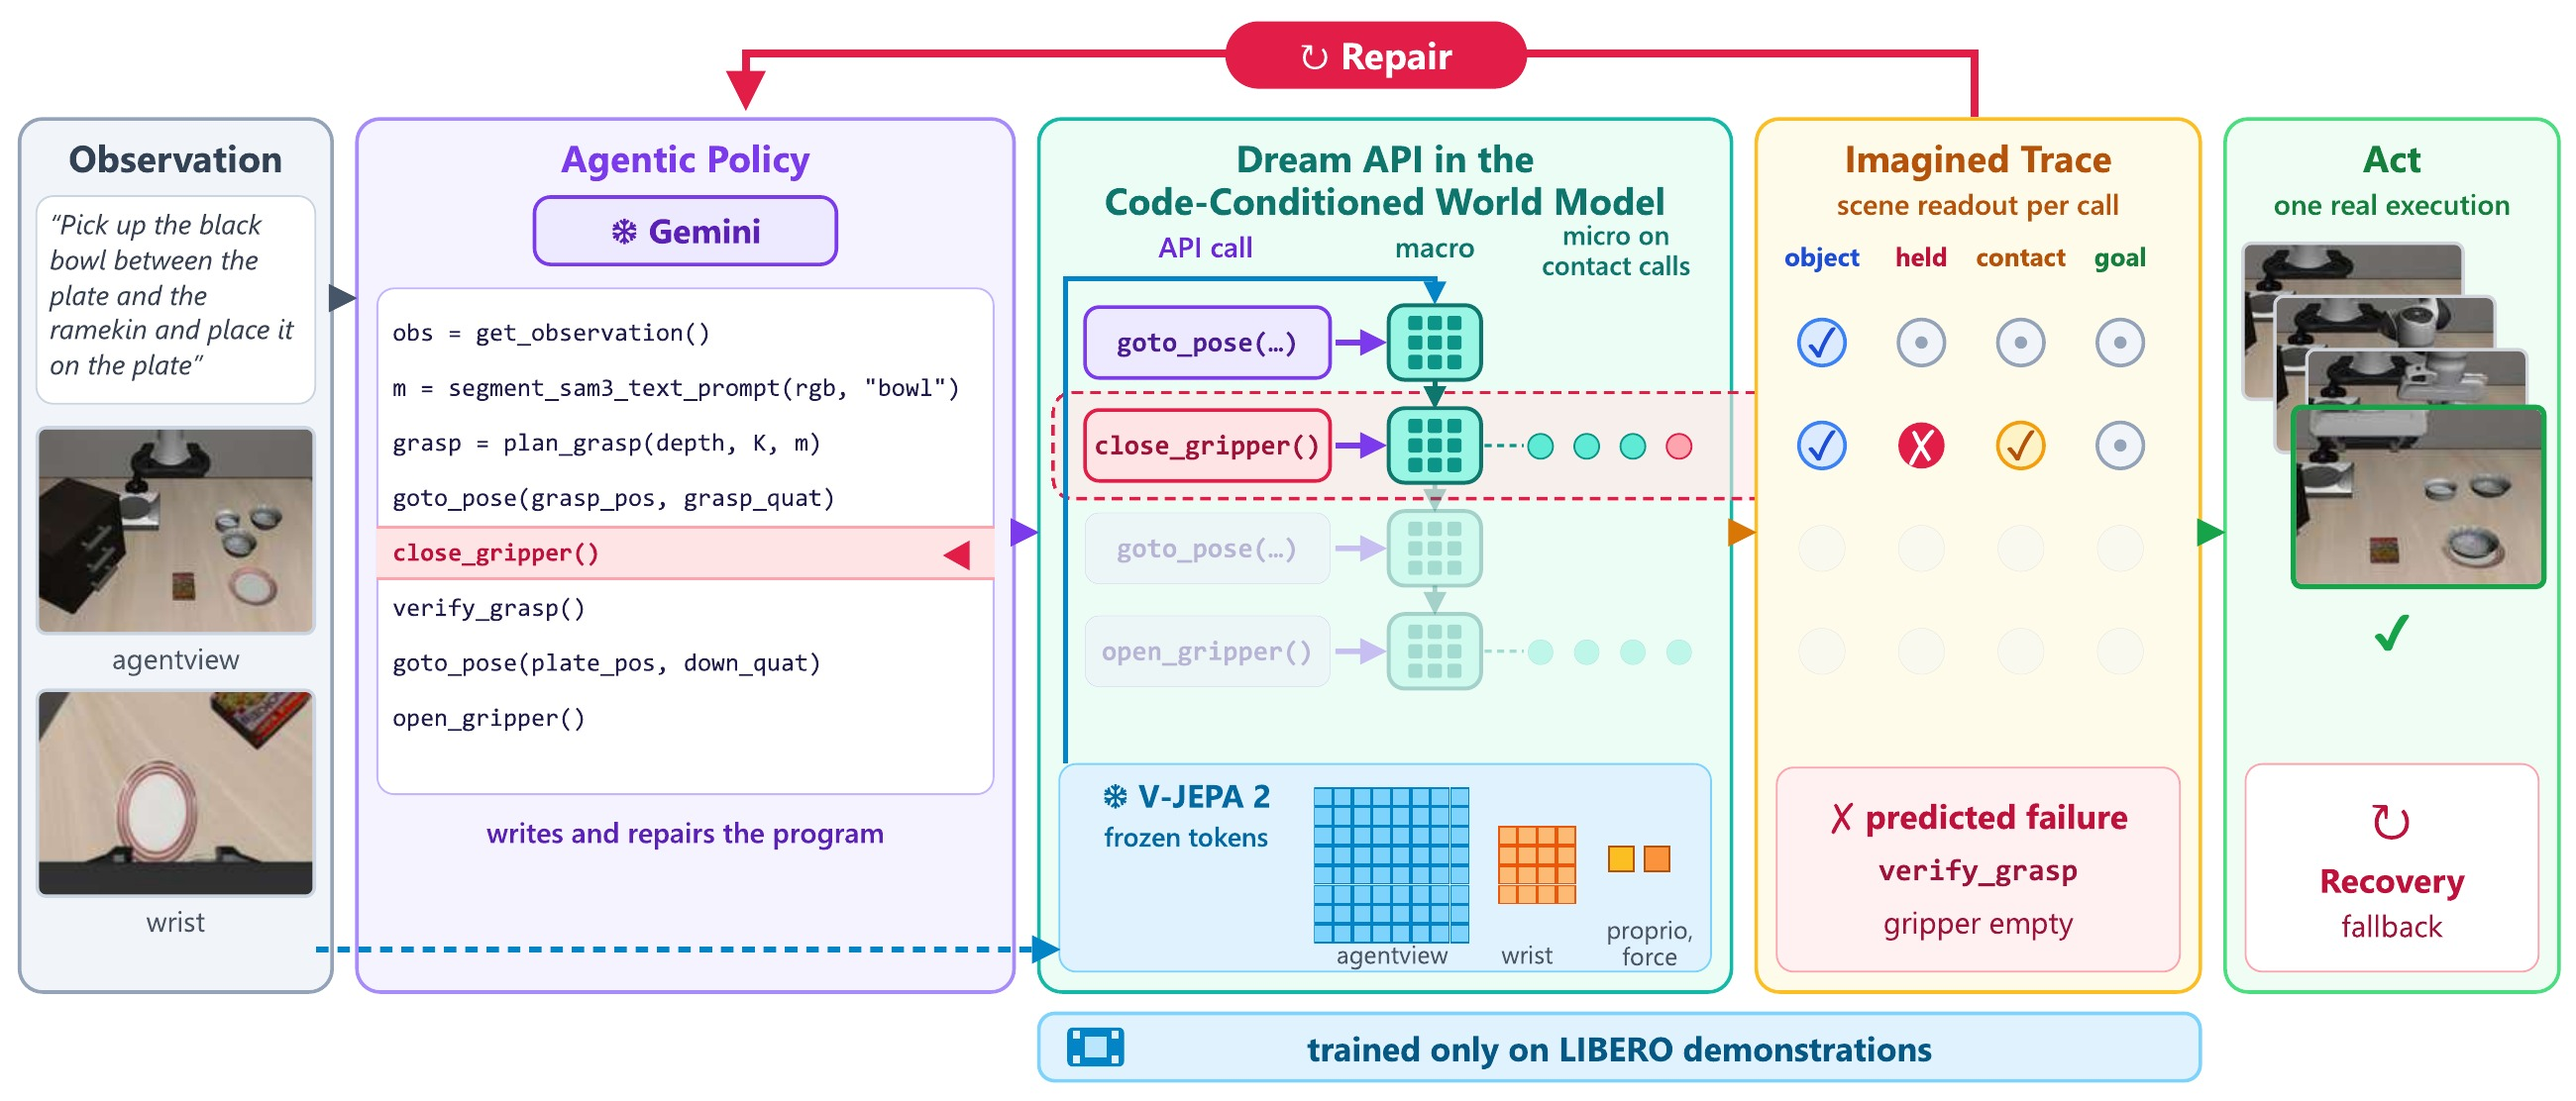
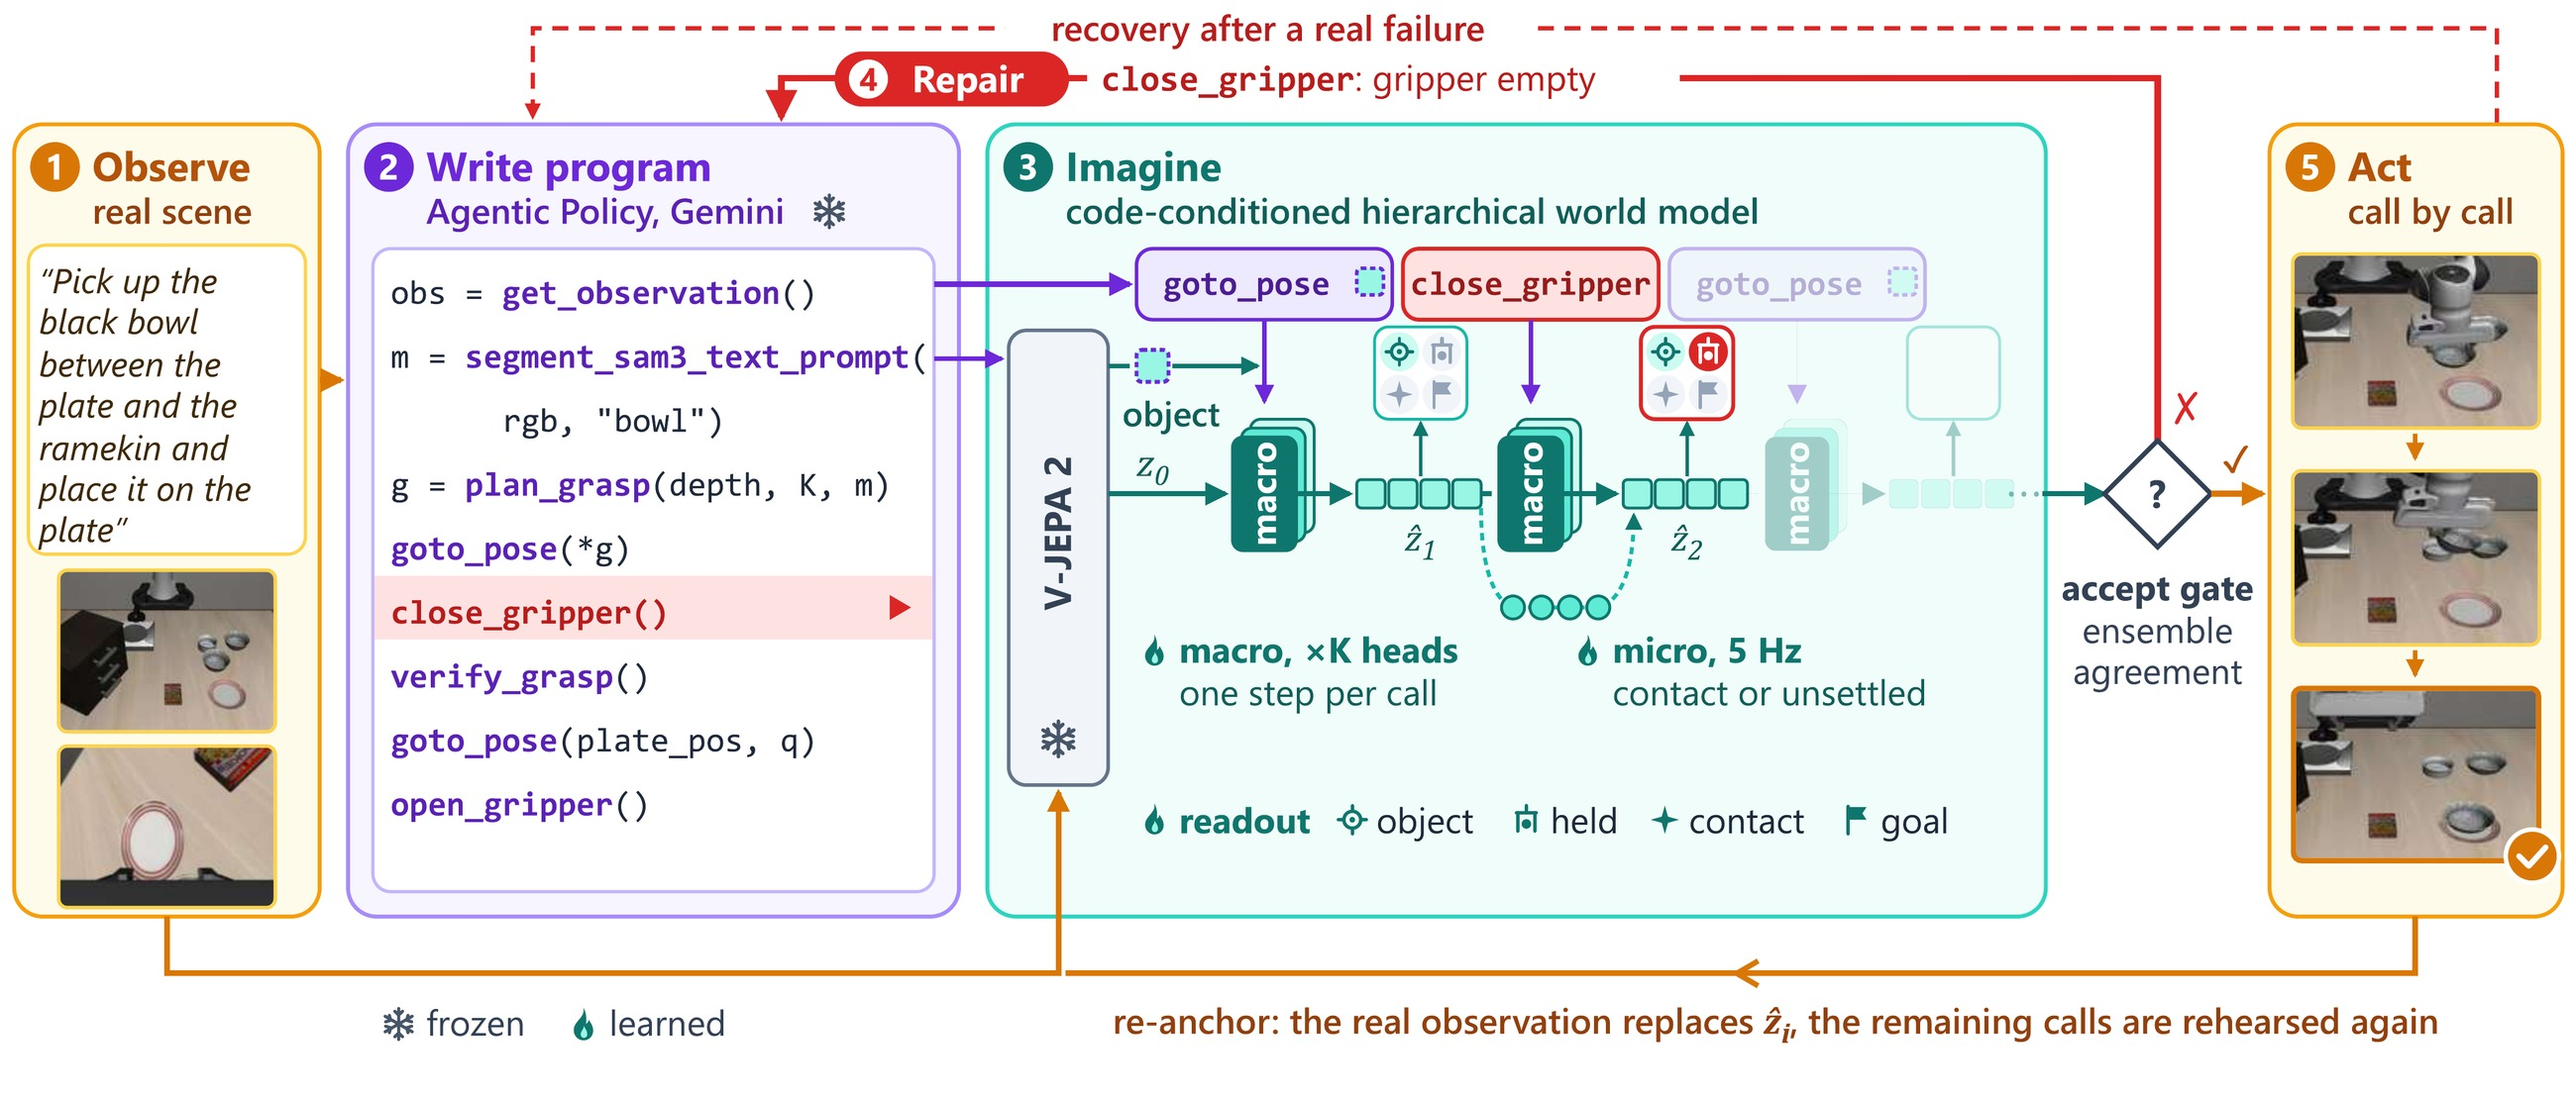
docs: redesign Agentic-LWM framework figure
Fig. 1 redesigned (stages 1 to 5, accept gate, repair, recovery and re-anchor loops); method cards and README describe receding-horizon act, ensemble accept gate, micro refinement of contact or unsettled calls and mask-pooled object arguments.

diff --git a/index.html b/index.html
@@ -4,7 +4,7 @@
   <meta charset="utf-8">
   <meta name="viewport" content="width=device-width, initial-scale=1">
   <title>Agentic-LWM: Grounding Multimodal Policies in Hierarchical Latent World Model</title>
-  <meta name="description" content="Agentic-LWM: a robot coding agent rehearses its program in a world model learned only from demonstrations, reads the imagined trace, repairs the program and executes it once.">
+  <meta name="description" content="Agentic-LWM: a robot coding agent rehearses its program in a world model learned only from demonstrations, reads the imagined trace, repairs the program and executes it call by call, re-anchoring the rehearsal on every real observation.">
   <meta name="theme-color" content="#0e7490">
   <link rel="canonical" href="https://physical-super-intelligence.github.io/Agentic-LWM/">
   <meta property="og:type" content="article">
@@ -70,12 +70,13 @@
 
       <figure class="fig" style="margin-top:2.4rem">
         <img src="static/images/framework.jpg" class="zoom" loading="eager" width="2600" height="1112"
-             alt="Agentic-LWM overview: the Agentic Policy writes a program, the Dream API runs it in the code-conditioned world model where each API call conditions one macro step and micro motor steps refine only the contact calls, a scene readout gives the imagined trace with a predicted failure, the agent repairs the program, and the robot executes it once with recovery as fallback">
+             alt="Agentic-LWM overview in five stages: observe the real scene; the Agentic Policy writes a program; the code-conditioned hierarchical world model rehearses it, each API call conditioning one macro step of an ensemble of heads on frozen V-JEPA 2 tokens, micro motor steps refining contact or unsettled calls and a scene readout after each call; an accept gate sends a predicted failure back for repair; the accepted program runs call by call, each real observation re-anchoring the rehearsal, with recovery after a real failure">
         <figcaption><b>Agentic-LWM: rehearsal in imagination.</b> The Agentic Policy writes a program from the instruction and
-          the real observation. The Dream API runs it unchanged in the code-conditioned world model: each API call conditions
-          one macro step in the latent space of frozen V-JEPA&nbsp;2 tokens, micro motor steps refine only the contact calls,
-          and a scene readout after each call yields the imagined trace. A predicted failure sends the trace back to the agent
-          for repair; the repaired program is executed once, with recovery as fallback.</figcaption>
+          the real observation. The Dream API runs it unchanged in the code-conditioned hierarchical world model: each API call
+          conditions one macro step of an ensemble of heads on frozen V-JEPA&nbsp;2 tokens, micro motor steps refine contact or
+          unsettled calls, and a scene readout yields the imagined trace. A predicted failure the ensemble agrees on returns to
+          the agent for repair; an accepted program runs call by call, each real observation re-anchoring the rehearsal, with
+          recovery as fallback.</figcaption>
       </figure>
     </div>
   </header>
@@ -92,14 +93,15 @@
       <p class="pull" style="margin-bottom:0">From <b>trial-and-error execution</b> to <b>rehearsal in imagination</b>. The
         core innovation is a world model that executes the agent's own code: its high level is conditioned on the code,
         predicting the latent state after each API call from the call's function name and arguments, and it returns a
-        predicted execution trace that the agent reads and repairs against.</p>
+        predicted execution trace that the agent reads and repairs against. Rehearsal recedes with execution, restarting from
+        each real observation, and an uncertainty gate trusts only the calls the model agrees on.</p>
     </div>
   </section>
 
   <!-- Method -->
   <section class="band" id="method">
     <div class="wrap">
-      <div class="head"><span class="kicker k2">Method</span><h2>Imagine, repair, then act once</h2></div>
+      <div class="head"><span class="kicker k2">Method</span><h2>Imagine, repair, then act call by call</h2></div>
       <p class="note" style="margin:0 0 1.2rem">The Agentic Policy is a frozen vision-language model (Gemini) that writes
         Python against a perception and motion API, with retreat after a failed turn, a grasp check in meters, re-observation
         and re-synthesis; our agent builds on an <a href="https://proceedings.mlr.press/v306/fu26u.html">open-source coding-agent
@@ -108,30 +110,37 @@
         end-effector delta actions. The four parts below are the Stage 1 design built on these; the planner stays frozen and
         outside the world model.</p>
       <div class="ideas">
-        <div class="idea"><span class="n">01</span><h3>Code-conditioned world model</h3>
+        <div class="idea"><span class="n">01</span><h3>Code-conditioned hierarchical world model</h3>
           <p>Each macro step predicts the latent state after one API call from the current latent and an embedding of the
-            call itself: a learned token for the function name, the object it acts on through a frozen text encoder, and its
-            numeric arguments as values. The micro level stays on the compiled motor actions at 5&nbsp;Hz and refines only the
-            contact calls (<code>close_gripper</code>, <code>open_gripper</code>, pushes). Call labels come free from the
-            demonstrations: replays are cut at gripper events and end-effector stops and labelled by rules on the stored
-            simulator state, with no language-model labels.</p></div>
+            call itself: a learned token for the function name, its numeric arguments as values, and the object it acts on,
+            grounded in what the frozen encoder sees (V-JEPA&nbsp;2 tokens pooled under the mask the agent's own
+            <code>segment_sam3_text_prompt</code> returns, with the text prompt as a second key). The macro level is an
+            ensemble of small heads on a shared trunk; a call is settled only when the heads agree. The micro level stays on
+            the compiled motor actions at 5&nbsp;Hz and refines the contact calls (<code>close_gripper</code>,
+            <code>open_gripper</code>), every unsettled call and every motion whose path passes near an object. Call labels
+            come free from the demonstrations: replays are cut at gripper events and end-effector stops and labelled by rules
+            on the stored simulator state, with no language-model labels.</p></div>
         <div class="idea"><span class="n">02</span><h3>Scene readout</h3>
           <p>A small head reads every predicted state: object positions, the object in hand, finger and arm contacts, and
             which goal conditions hold. It is supervised by the simulator state stored in the demonstration replays (object
             poses, evaluator contacts, LIBERO's success check) and by the task's goal predicates.</p></div>
         <div class="idea"><span class="n">03</span><h3>Dream API</h3>
-          <p>An imagined backend with the same function signatures, so the agent's program runs unchanged. Perception before
-            any motion uses the real observation; each motion or gripper call conditions one macro step; grasp checks and
-            later perception calls answer from the readout. The world model is latent and decodes no pixels.</p></div>
+          <p>An imagined backend with the same function signatures, so the agent's program runs unchanged. A rehearsal starts
+            from the latest real observation; each motion or gripper call conditions one macro step; grasp checks and
+            perception calls after an imagined motion answer from the readout, and every call is marked settled or not. During
+            execution, perception reads the real observation. The world model is latent and decodes no pixels.</p></div>
         <div class="idea"><span class="n">04</span><h3>Imagine, Repair, Act</h3>
-          <p>The agent rehearses its program, reads the predicted trace (per call: readout and a predicted failure event with
-            its call index), edits the program and rehearses again within a fixed budget, then executes once for real. The
-            recovery loop stays as the fallback after a real failure, and every real retry is counted.</p></div>
+          <p>The agent rehearses its program and an accept gate reads the trace: a settled call predicted to fail, or unmet
+            goal conditions, send the program back for repair within a fixed budget. Otherwise the robot executes the next call
+            only; the real observation then replaces the imagined latent and the remaining calls are rehearsed again, so a
+            suffix now predicted to fail is repaired before the next real call, and a call that stays unsettled is executed
+            and read from reality instead of guessed. The recovery loop stays as the fallback after a real failure, and every
+            real retry is counted.</p></div>
       </div>
       <p class="note">Trained only on LIBERO demonstrations, replayed through the agent's own move primitive with perturbations
-        that supply failures; never on agent episodes. Limitations we test rather than assume: error compounds over long
-        programs, and an offline test of an action-level version found that predicted futures did not beat current-frame
-        features on shifted replays, which is why code conditioning and the readout are the Stage 1 changes.</p>
+        that supply failures; never on agent episodes. An offline test of an action-level, fixed-stride version found that
+        predicted futures did not beat current-frame features on shifted replays, which is why the model now steps on the
+        agent's calls and reads the scene out.</p>
     </div>
   </section>
 
@@ -164,8 +173,9 @@
         </table>
       </div>
       <p class="note">Metrics: first-execution completion, final completion, real retries and Gemini calls per episode,
-        rehearsal latency, and per-call agreement between the predicted and the real readout. The ablation suite is the one
-        with the lowest R0 first-execution completion, fixed after R0 and before any rehearsal run.</p>
+        rehearsal latency, and per-call agreement between the predicted and the real readout. Suffix repairs during execution
+        are logged apart and do not count as completion at first execution. R1 to R5 share the call-by-call act. The ablation
+        suite is the one with the lowest R0 first-execution completion, fixed after R0 and before any rehearsal run.</p>
 
       <div class="hyp">
         <div class="idea"><span class="n">Q1 &middot; H1</span><h3>Does rehearsal make the first execution more reliable under shift?</h3>
@@ -173,8 +183,9 @@
             contains zero. R1 separates the value of rehearsal from world-model fidelity.</p></div>
         <div class="idea"><span class="n">Q2 &middot; H2</span><h3>Does a world model conditioned on the agent's calls rehearse better than one on motor actions?</h3>
           <p>On the same programs, code-conditioned rehearsal (R5) beats action-level rehearsal (R2) in first-execution
-            completion and in per-call trace agreement, and the gap
-            grows with program length. Refuted if either difference or the growth contains zero.</p></div>
+            completion and in per-call trace agreement, and the gap grows with the rehearsal horizon. Refuted if either
+            difference or the growth contains zero. At no extra cost, the R5 logs also test that agreement is higher on
+            settled than on unsettled calls and count how often re-anchoring triggers a suffix repair.</p></div>
         <div class="idea"><span class="n">Q3 &middot; H3</span><h3>What must the agent see to fix its code?</h3>
           <p>At an equal cap on Gemini calls, first-execution completion rises from R3 (flag) to R4 (event and call index)
             to R5 (full trace). Refuted for each step whose paired interval contains zero.</p></div>

diff --git a/README.md b/README.md
@@ -14,14 +14,20 @@ program against a perception and motion API; the agent builds on an
 program runs in a hierarchical world model over frozen V-JEPA 2 tokens whose high level is conditioned on the code: each
 macro step predicts the latent state after one API call from the call's function name and arguments. A scene readout
 after each call gives object positions, the object in hand, contacts and goal conditions. The agent reads the imagined
-trace, repairs the program and executes it once for real, with its recovery loop as the fallback.
+trace and repairs the program; an accept gate passes only calls the model agrees on, and the program then runs call by
+call, each real observation re-anchoring the rehearsal of the remaining calls, with the recovery loop as the fallback.
 
-- **Code-conditioned world model**: one macro step per API call, embedded from a learned primitive token, the object
-  through a frozen text encoder and the numeric arguments; the micro level at 5 Hz on the compiled motor actions refines
-  only the contact calls; call labels come from demonstration replays by rules on stored simulator state.
+- **Code-conditioned hierarchical world model**: one macro step per API call, embedded from a learned primitive token,
+  the numeric arguments and the object, grounded as V-JEPA 2 tokens pooled under the agent's own segmentation mask with
+  the text prompt as a second key; an ensemble of macro heads marks the calls it cannot settle; the micro level at 5 Hz
+  on the compiled motor actions refines contact calls, unsettled calls and motions that pass near an object; call labels
+  come from demonstration replays by rules on stored simulator state.
 - **Scene readout**: supervised by simulator state stored in LIBERO demonstration replays and by goal predicates.
-- **Dream API**: same function signatures as the real API; perception after a motion answers from the readout.
-- **Imagine, Repair, Act**: rehearse within a fixed budget, execute once, count every real retry.
+- **Dream API**: same function signatures as the real API; a rehearsal starts from the latest real observation, and
+  perception after an imagined motion answers from the readout.
+- **Imagine, Repair, Act**: an accept gate sends settled predicted failures back for repair within a fixed budget; the
+  robot executes one call at a time, re-anchors on the real observation and re-rehearses the remaining calls; every real
+  retry is counted.
 
 ## Status
 
